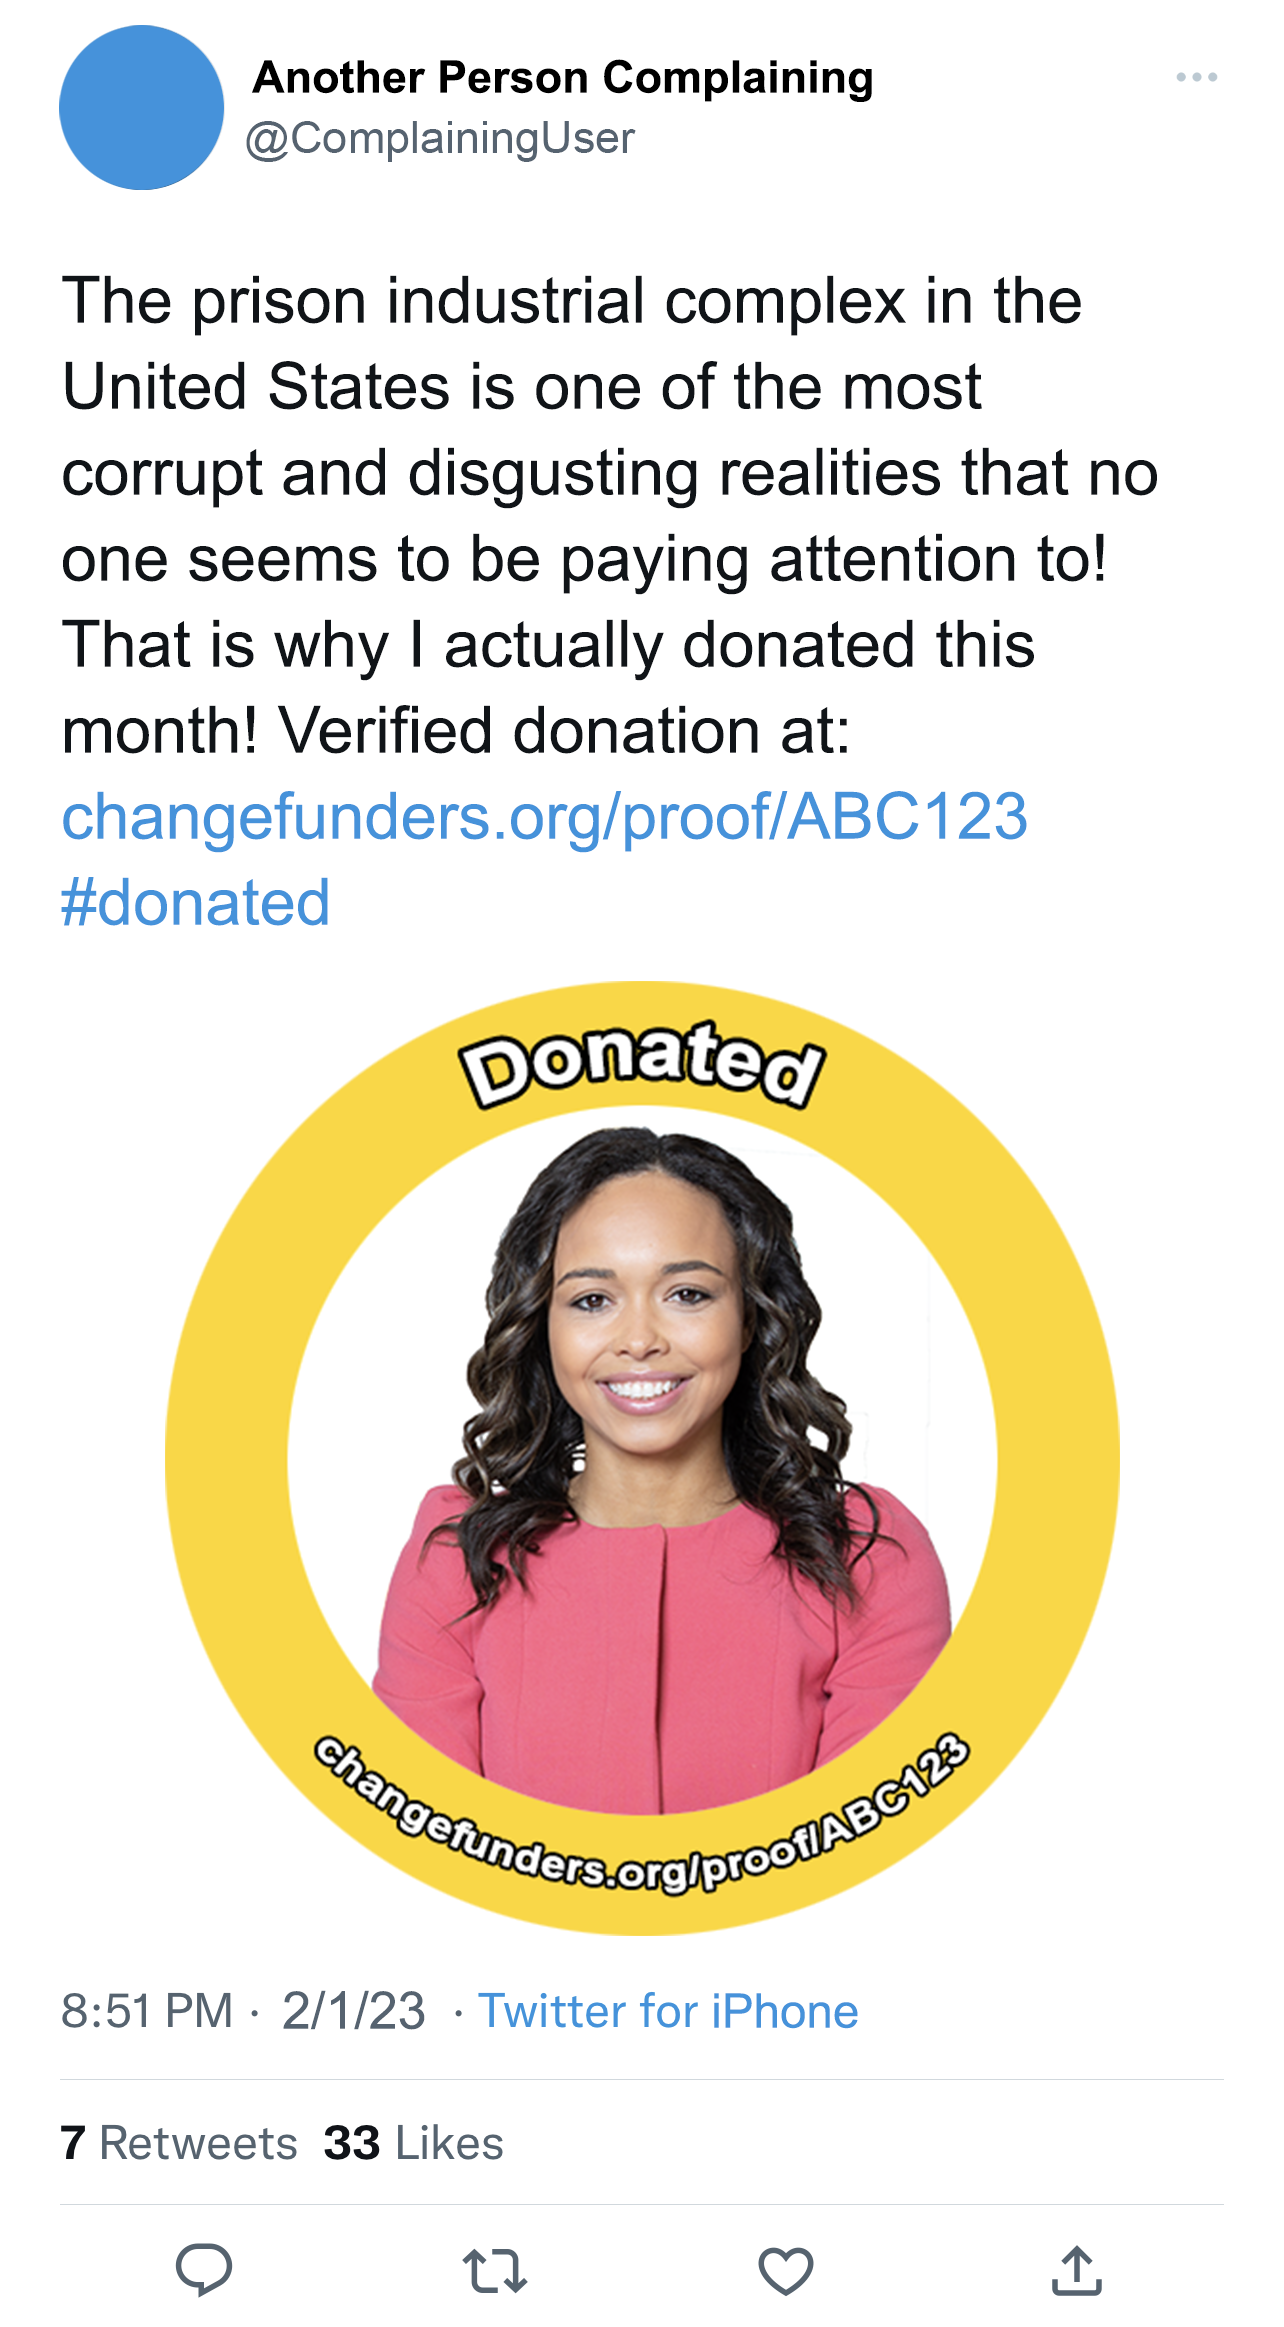
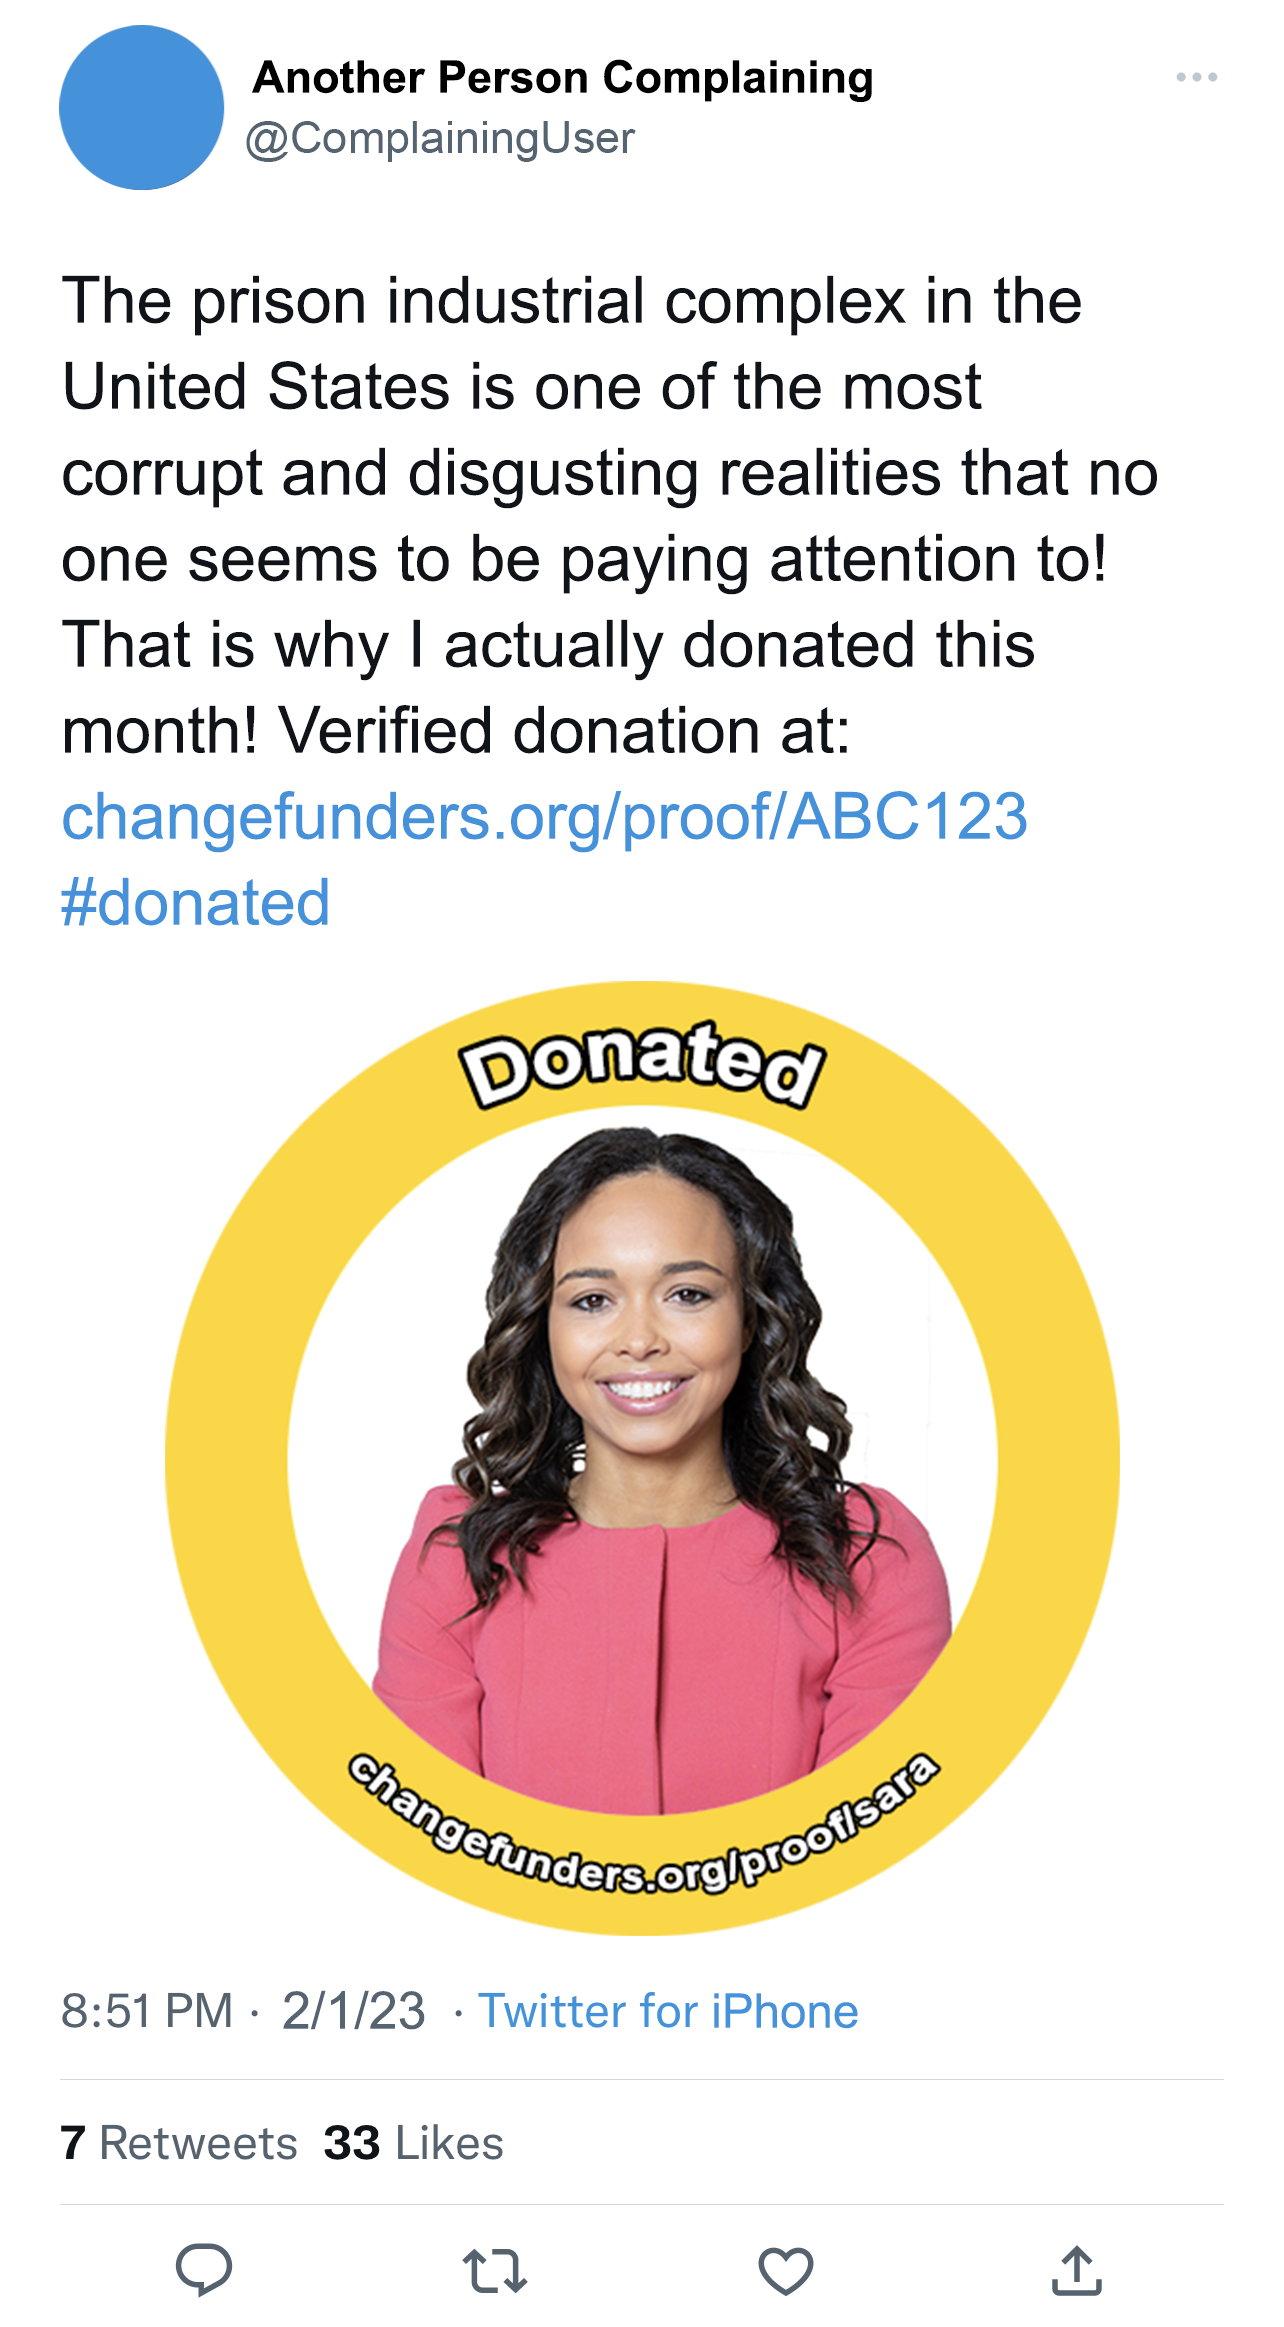
fix the username to personal and autogenerated

Changed region(s): [[0.2492, 0.7426, 0.7477, 0.8354]]

diff --git a/website/templates/not_signed_in/landing/index.html b/website/templates/not_signed_in/landing/index.html
@@ -14,7 +14,7 @@
     <img src="/static/images/landing/clouds_group.png" alt="background cloud" class="custom-img-size-1 custom-img-index-1 custom-img-opacity-1">
     <img src="/static/images/landing/clouds_group.png" alt="background cloud" class="custom-img-size-1 custom-img-index-1 custom-img-opacity-1">
   </div>
-  <a href="/proof/ABC101"><img src="/static/images/cards/changefunders_card1.png" class="img-fluid img-thumbnail rounded-circle mx-auto d-block shadow-lg custom-max-width-2 custom-img-index-2 custom-img-position-2" alt="donator proof"></a>
+  <a href="/proof/ashley"><img src="/static/images/proof/proof_ashley.png" class="img-fluid img-thumbnail rounded-circle mx-auto d-block shadow-lg custom-max-width-2 custom-img-index-2 custom-img-position-2" alt="donator proof"></a>
   <div class="container custom-mt-1 text-center mx-auto custom-stroke-1">
     <h1 class="custom-header-2 custom-index-2 custom-position-relative">Fund the <span class="text-decoration-underline">change</span> you want to see in the world first &#127758;, then complain.</h1>
   </div>
@@ -61,7 +61,7 @@
       <p>- then they complain about how bad society is.</p>
     </div>
     <div class="container text-center">
-      <a href="/proof/ABC123"><img src="/static/images/landing/tweet2.png" alt="complaining without contribution" class="custom-img-size-2 custom-border-radius-1 shadow-lg"></a>
+      <a href="/proof/sara"><img src="/static/images/landing/tweet2.png" alt="complaining without contribution" class="custom-img-size-2 custom-border-radius-1 shadow-lg"></a>
     </div>
   </div>
   <div class="custom-shape-divider-bottom-1670932652">
@@ -139,7 +139,7 @@
   </div>
   <div class="container text-center custom-pt-2 custom-subheader-1 custom-max-width-1">
     <p>1. Proof of donation badge.</p>
-    <a href="/proof/ABC107"><img src="/static/images/cards/changefunders_card3.png" class="img-thumbnail rounded-circle mx-auto d-block shadow-lg" alt="donator proof"></a>
+    <a href="/proof/olivia"><img src="/static/images/proof/proof_olivia.png" class="img-thumbnail rounded-circle mx-auto d-block shadow-lg" alt="donator proof"></a>
   </div>
 </div>
 {% endblock %}

diff --git a/website/auth.py b/website/auth.py
@@ -34,6 +34,13 @@ redis_connection = redis_connect_to_database_function()
 def signup_function():
   localhost_print_function(' ------------------------ signup_function start ------------------------ ')
   sign_up_error_message = ''
+  # ------------------------ generate unique username start ------------------------
+  randomly_generated_username = generate_username_uuid_function(6)
+  username_exists = UserObj.query.filter_by(username=randomly_generated_username).first()
+  while username_exists != None:
+    randomly_generated_username = generate_username_uuid_function(6)
+    username_exists = UserObj.query.filter_by(username=randomly_generated_username).first()
+  # ------------------------ generate unique username end ------------------------
   if request.method == 'POST':
     # ------------------------ post method hit #1 - various pages start ------------------------
     ui_email = request.form.get('uiEmailVariousPages1')
@@ -107,16 +114,9 @@ def signup_function():
                               redirect_var_password=ui_password)
     # ------------------------ check if user email already exists in db start ------------------------
     else:
-      # ------------------------ generate unique username start ------------------------
-      # randomly_generated_username = generate_username_uuid_function(6)
-      # username_exists = UserObj.query.filter_by(username=randomly_generated_username).first()
-      # while username_exists != None:
-        # randomly_generated_username = generate_username_uuid_function(6)
-        # username_exists = UserObj.query.filter_by(username=randomly_generated_username).first()
-      # ------------------------ generate unique username end ------------------------
       # ------------------------ check if username exists start ------------------------
-      username_exists = UserObj.query.filter_by(username=ui_username).first()
-      if username_exists:
+      username_db_exists = UserObj.query.filter_by(username_db=ui_username.lower()).first()
+      if username_db_exists:
         sign_up_error_message = 'Username not available.'
         localhost_print_function(' ------------------------ signup_function end ------------------------ ')
         return render_template('not_signed_in/sign_up/index.html',
@@ -135,6 +135,7 @@ def signup_function():
         password=generate_password_hash(ui_password, method="sha256"),
         name=None,
         username=ui_username,
+        username_db=ui_username.lower(),
         fk_stripe_customer_id=None,
         fk_stripe_subscription_id=None
       )
@@ -160,7 +161,7 @@ def signup_function():
     # ------------------------ post method hit #2 - sign up page only end ------------------------
 
   localhost_print_function(' ------------------------ signup_function end ------------------------ ')
-  return render_template('not_signed_in/sign_up/index.html',user=current_user,error_message_to_html=sign_up_error_message)
+  return render_template('not_signed_in/sign_up/index.html',user=current_user,error_message_to_html=sign_up_error_message, redirect_var_username=randomly_generated_username)
 # ------------------------ individual route end ------------------------
 
 # ------------------------ individual route start ------------------------

diff --git a/website/views.py b/website/views.py
@@ -128,18 +128,17 @@ def i_proof_page_function(search_username):
   localhost_print_function(' ------------------------ i_proof_page_function start ------------------------')
   proof_error_statement = ''
   # ------------------------ check if user exists start ------------------------
-  search_username = search_username.upper()
-  user_exists = UserObj.query.filter_by(username=search_username).first()
+  user_exists = UserObj.query.filter_by(username_db=search_username.lower()).first()
   if user_exists:
     username = user_exists.username
     # ------------------------ temporary logic start ------------------------
     # This is temporary and should instead point to AWS s3 public bucket of the user's profile picture url location
-    if username == 'ABC101':
-      img_url = '/static/images/cards/changefunders_card1.png'
-    elif username == 'ABC123':
-      img_url = '/static/images/cards/changefunders_card2.png'
-    elif username == 'ABC107':
-      img_url = '/static/images/cards/changefunders_card3.png'
+    if username == 'ashley':
+      img_url = '/static/images/proof/proof_ashley.png'
+    elif username == 'sara':
+      img_url = '/static/images/proof/proof_sara.png'
+    elif username == 'olivia':
+      img_url = '/static/images/proof/proof_olivia.png'
     else:
       img_url=''
     pass

diff --git a/website/models.py b/website/models.py
@@ -18,6 +18,7 @@ class UserObj(db.Model, UserMixin):   # Only the users object inherits UserMixin
   password = db.Column(db.String(150))
   name = db.Column(db.String(150))
   username = db.Column(db.String(15))
+  username_db = db.Column(db.String(15))
   fk_stripe_customer_id = db.Column(db.String(150))
   fk_stripe_subscription_id = db.Column(db.String(150))
 
